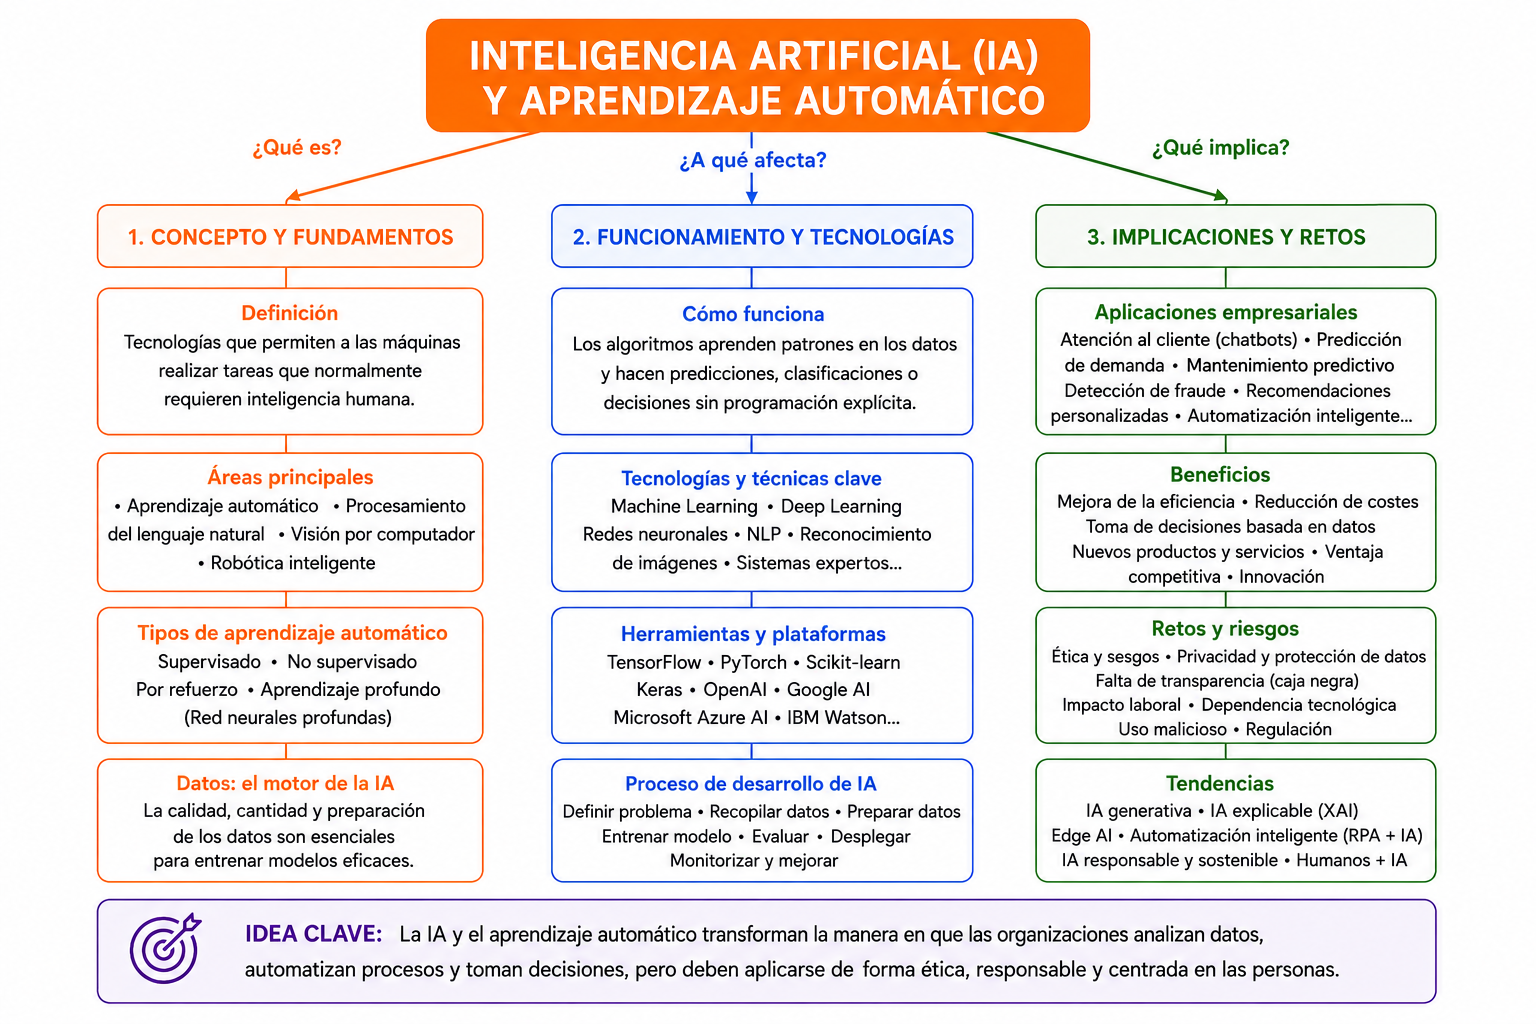
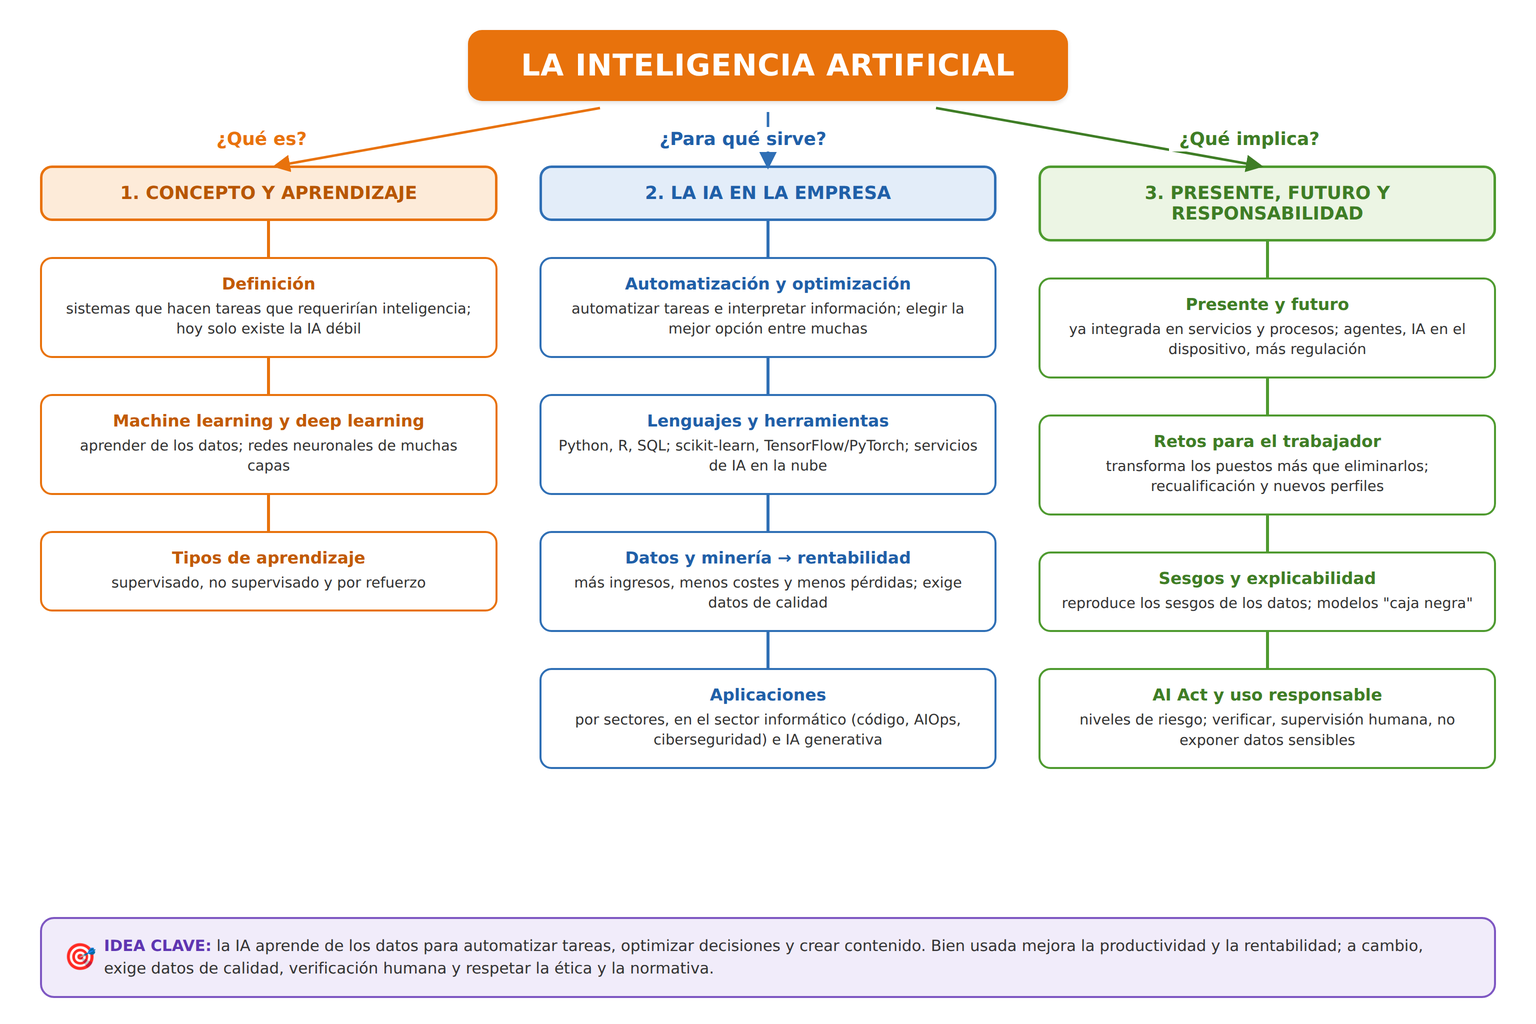
UD4: completa los contenidos del RA4 y regenera el mapa conceptual
- Añade la IA en la automatización y optimización de procesos
- Añade lenguajes y herramientas de programación en IA
- Añade IA, datos y minería de datos para la rentabilidad de la empresa
- Añade la IA aplicada al sector informático (el sector del título)
- Añade la importancia presente y futura de la IA y los retos para el trabajador
- Renumera apartados y subapartados y amplía la autoevaluación
- Regenera el mapa conceptual acorde a la nueva estructura

Claude-Session: https://claude.ai/code/session_01Sc4iXmGYX4nJpfHnHuWThb

Changed region(s): [[0.0, 0.0, 1.0, 1.0]]

diff --git a/docs/ud4.md b/docs/ud4.md
@@ -57,7 +57,95 @@ El término "inteligencia artificial" se acuñó en 1956. Desde entonces el camp
     2. **Supervisado** — se entrena con datos etiquetados (entrada + resultado correcto).
     3. **Por refuerzo** — aprende por ensayo y error con recompensa o penalización.
 
-## 3. Aplicaciones de la IA por sectores
+## 3. La IA en la automatización y la optimización de procesos
+
+Dos usos muy extendidos de la IA en las empresas son **automatizar** tareas que antes requerían intervención humana y **optimizar** decisiones que antes se tomaban "a ojo".
+
+**Automatización inteligente.** La RPA (UD2) automatiza tareas repetitivas siguiendo reglas fijas; al combinarla con IA, el sistema puede además **interpretar** información no estructurada y **decidir**:
+
+- Leer facturas, contratos o correos y extraer los datos clave (procesamiento de lenguaje natural, visión artificial).
+- Clasificar y enrutar solicitudes, tickets o incidencias.
+- Responder consultas frecuentes mediante asistentes conversacionales.
+- Detectar anomalías (fraude, fallos) y lanzar una alerta o una acción.
+
+Cuando se encadenan varias de estas piezas para automatizar un proceso de principio a fin se habla de **hiperautomatización**.
+
+**Optimización.** La IA busca la mejor combinación entre muchísimas posibles:
+
+- Rutas de reparto y planificación de flotas.
+- Niveles de inventario y previsión de demanda.
+- Consumo de energía en edificios o plantas.
+- Planificación de la producción y de los turnos.
+- Precios dinámicos.
+
+**Mejoras que aporta**: menos tiempo y menos errores, disponibilidad 24/7, liberar a las personas de tareas rutinarias para dedicarlas a otras de más valor, y decisiones basadas en datos en lugar de en intuición.
+
+!!! question "💡 Comprueba que lo has entendido"
+    Un ayuntamiento usa un sistema que lee las instancias presentadas, extrae los datos, comprueba si falta documentación y responde automáticamente a las más sencillas. Además, otro sistema decide cada día el recorrido de los camiones de recogida de residuos para gastar el menor combustible posible.
+
+    **¿Cuál de los dos casos es automatización y cuál es optimización?**
+
+??? note "Ver respuesta"
+    - Leer instancias, extraer datos y responder a las sencillas es **automatización inteligente** (interpreta información no estructurada y ejecuta una tarea que hacía una persona).
+    - Decidir el recorrido de menor consumo entre todas las rutas posibles es **optimización** (elige la mejor combinación según un objetivo).
+
+## 4. Herramientas para trabajar con IA: lenguajes y plataformas
+
+Desarrollar soluciones de IA no exige partir de cero: existe un ecosistema maduro de lenguajes, librerías y servicios.
+
+**Lenguajes de programación más usados en IA:**
+
+- **Python**: es el lenguaje dominante en IA y ciencia de datos, por su sintaxis sencilla y su enorme ecosistema de librerías.
+- **R**: muy utilizado en estadística y análisis de datos.
+- **SQL**: imprescindible para extraer y preparar los datos guardados en bases de datos.
+- Según el contexto: **Julia** (cálculo científico), **C++** o **Java** cuando se necesita rendimiento o integración con sistemas existentes, y **JavaScript** para ejecutar modelos en el navegador.
+
+**Librerías y *frameworks* habituales (en Python):**
+
+- **scikit-learn**: aprendizaje automático "clásico" (clasificación, regresión, *clustering*).
+- **TensorFlow** y **PyTorch**: aprendizaje profundo (redes neuronales).
+- **pandas** y **NumPy**: manipulación y cálculo con datos.
+- **Matplotlib** y similares: visualización.
+
+**Plataformas y servicios:**
+
+- **Servicios de IA en la nube** (UD3): visión, lenguaje, voz o modelos generativos accesibles mediante API, sin entrenar nada.
+- **Entornos de trabajo**: *notebooks* (Jupyter, Google Colab) para experimentar con datos y modelos.
+- **Herramientas *no-code* / *low-code***: permiten crear modelos sencillos sin programar, subiendo un conjunto de datos o combinando bloques.
+
+!!! question "💡 Comprueba que lo has entendido"
+    Un equipo quiere prototipar rápidamente un modelo que prediga la rotación de clientes a partir de una tabla de datos, y necesita también consultar y cruzar esos datos desde la base de datos corporativa.
+
+    **¿Qué lenguaje y qué tipo de herramienta encajarían mejor?**
+
+??? note "Ver respuesta"
+    **Python** con una librería de aprendizaje automático (por ejemplo, scikit-learn) sobre un *notebook* para prototipar con rapidez, y **SQL** para extraer y cruzar los datos de la base de datos corporativa.
+
+## 5. IA, datos y minería de datos: rentabilidad para la empresa
+
+La IA **no funciona sin datos**: aprende de ellos. Por eso va siempre unida al **Big Data** (UD2) y a la **minería de datos**.
+
+- **Minería de datos (*data mining*)**: conjunto de técnicas para descubrir patrones, relaciones y tendencias útiles dentro de grandes volúmenes de datos (reglas de asociación, agrupamiento, detección de anomalías, árboles de decisión). Es la "materia prima" sobre la que después se construyen los modelos de IA.
+- Flujo habitual: **datos** (IoT, transacciones, web, CRM) → **preparación y minería** → **modelo de IA** → **decisión o acción** → nuevos datos que realimentan el proceso.
+
+**Cómo se traduce en rentabilidad:**
+
+- **Más ingresos**: recomendaciones personalizadas, segmentación de clientes, previsión de demanda, precios óptimos y fidelización (predecir qué cliente va a abandonar).
+- **Menos costes**: mantenimiento predictivo, optimización de rutas e inventario, automatización de tareas, menos errores y devoluciones.
+- **Menos pérdidas**: detección de fraude y de impagos, control de calidad.
+- **Mejores decisiones**: cuadros de mando predictivos en lugar de informes que solo miran al pasado.
+
+La **calidad de los datos** es decisiva: datos incompletos o sesgados producen modelos poco fiables (*garbage in, garbage out*). La evaluación de la calidad del dato se trabaja en la UD5.
+
+!!! question "💡 Comprueba que lo has entendido"
+    Una tienda online implanta un modelo que analiza el histórico de compras y navegación para: (a) recomendar productos a cada cliente y (b) avisar de qué clientes tienen alta probabilidad de dejar de comprar.
+
+    **¿Por qué vías se espera que esto mejore la rentabilidad?**
+
+??? note "Ver respuesta"
+    Sobre todo por la vía de **más ingresos**: las recomendaciones personalizadas aumentan las ventas cruzadas, y anticipar el abandono permite actuar (ofertas, atención) para **fidelizar** antes de perder al cliente. Todo ello se apoya en la **minería** del histórico de datos.
+
+## 6. Aplicaciones de la IA por sectores
 
 Conectando con la digitalización sectorial vista en la UD1:
 
@@ -76,7 +164,31 @@ Conectando con la digitalización sectorial vista en la UD1:
 ??? note "Ver respuesta"
     **Visión artificial** (aprendizaje profundo aplicado a imágenes) para **control de calidad automatizado**: detecta defectos de forma continua, más rápido y sin la fatiga de la inspección manual, reduciendo las piezas defectuosas que llegan al cliente.
 
-## 4. IA generativa
+## 7. La IA en el sector informático (el sector del título)
+
+En el propio ámbito de la **administración de sistemas y las redes**, la IA se ha convertido en una herramienta de trabajo cotidiana:
+
+- **Asistentes de programación**: generan, completan y explican código, ayudan a depurar y a escribir pruebas o documentación.
+- **AIOps (operaciones de TI con IA)**: análisis automático de *logs* y métricas para detectar incidencias antes de que afecten al servicio, correlacionar alertas y sugerir la causa raíz.
+- **Ciberseguridad**: detección de intrusiones y de comportamiento anómalo en la red, filtrado de *phishing* y *spam*, priorización de vulnerabilidades (véase UD2).
+- **Automatización de la administración de sistemas**: generación de *scripts* y de ficheros de configuración, gestión predictiva de capacidad y de copias, respuesta automática a eventos.
+- **Soporte y *service desk***: *chatbots* que resuelven incidencias frecuentes y guían al usuario; clasificación y enrutado automático de *tickets*.
+- **Pruebas y calidad del software**: generación de casos de prueba, detección de regresiones.
+
+**Mejoras en los procesos de trabajo**: menos tiempo en tareas repetitivas, menos errores de configuración, respuesta más rápida a incidencias y más margen para el diseño y la mejora. La contrapartida: hay que **revisar** lo que produce la IA (código, configuraciones) y no perder el criterio técnico propio.
+
+!!! question "💡 Comprueba que lo has entendido"
+    En un departamento de sistemas, la IA sugiere el *script* de despliegue, resume cada noche miles de líneas de *log* y avisa de patrones de tráfico anómalos en la red.
+
+    **Asocia cada uso con su categoría (asistente de programación, AIOps, ciberseguridad) e indica una precaución común a los tres.**
+
+??? note "Ver respuesta"
+    - Sugerir el *script* de despliegue → **asistente de programación**.
+    - Resumir los *logs* y detectar incidencias → **AIOps**.
+    - Avisar de tráfico anómalo → **ciberseguridad**.
+    - Precaución común: **revisar y validar** la salida de la IA antes de aplicarla; el criterio técnico sigue siendo del profesional.
+
+## 8. IA generativa
 
 La **IA generativa** agrupa a los modelos capaces de crear contenido nuevo (texto, imágenes, audio, vídeo o código) en lugar de limitarse a clasificar o predecir sobre datos ya existentes. Es, con diferencia, el ámbito de la IA que más ha impactado en el uso cotidiano en los últimos años.
 
@@ -96,7 +208,7 @@ La **IA generativa** agrupa a los modelos capaces de crear contenido nuevo (text
 ??? note "Ver respuesta"
     Es **IA generativa**: crea contenido nuevo (una imagen que no existía) a partir de una descripción, en lugar de limitarse a clasificar o predecir sobre datos ya existentes. Se apoya en el aprendizaje profundo.
 
-### 4.1. Limitaciones de la IA generativa
+### 8.1. Limitaciones de la IA generativa
 
 - **Alucinaciones**: los modelos pueden generar información que suena plausible pero es incorrecta o directamente inventada, presentada con total seguridad.
 - **Desactualización**: un modelo entrenado con datos hasta una fecha determinada no conoce, por defecto, información posterior a ese momento.
@@ -112,9 +224,37 @@ Por ello, un principio fundamental en el uso profesional de la IA generativa es 
 ??? note "Ver respuesta"
     Una **alucinación**: información plausible pero inventada, presentada con seguridad (unida a la **falta de razonamiento verificable**: el modelo no consulta fuentes, genera la respuesta más probable). Lo habría evitado la **verificación humana** de la respuesta contra fuentes fiables antes de utilizarla.
 
-## 5. Ética y regulación de la inteligencia artificial
+## 9. Importancia presente y futura de la IA. Retos para el trabajador
 
-### 5.1. Sesgos algorítmicos
+**Presente.** La IA ya está integrada en servicios de uso diario (buscadores, traductores, recomendadores, asistentes, filtros antifraude) y en procesos de empresa de todos los sectores. La irrupción de la **IA generativa** (apartado 8) la ha puesto al alcance de cualquier persona sin perfil técnico.
+
+**Futuro (tendencias):**
+
+- **IA más presente y "invisible"**, integrada dentro de las herramientas que ya se usan.
+- **Agentes de IA** que no solo responden, sino que ejecutan tareas de varios pasos con cierta autonomía.
+- **IA en el dispositivo** (*edge*, UD3): modelos que funcionan en el móvil o en la máquina, sin enviar los datos a la nube.
+- **Más regulación y exigencia de transparencia** (apartado 10).
+- Debate abierto sobre **consumo energético**, propiedad intelectual y fiabilidad.
+
+**Retos para el trabajador:**
+
+- **Transformación de los puestos, más que desaparición**: la IA automatiza *tareas*, no siempre profesiones enteras; muchos empleos cambian de contenido.
+- **Recualificación permanente (*reskilling* y *upskilling*)**: saber usar herramientas de IA y trabajar *con* ellas se convierte en una competencia básica.
+- **Nuevos perfiles**: ingeniería de datos, entrenamiento y supervisión de modelos, auditoría de algoritmos, integración de servicios de IA.
+- **Competencias que ganan valor**: criterio para verificar resultados, pensamiento crítico, comunicación, creatividad y trato con personas.
+- **Riesgos a vigilar**: pérdida de cualificación por delegar en exceso, vigilancia laboral mediante IA y la **brecha** entre quienes saben aprovecharla y quienes no.
+
+!!! question "💡 Comprueba que lo has entendido"
+    Ante la llegada de la IA generativa a su empresa, una persona teme que su puesto "desaparezca de un día para otro".
+
+    **Da una visión más matizada y una acción concreta que pueda tomar.**
+
+??? note "Ver respuesta"
+    Lo habitual es que la IA automatice **tareas** dentro del puesto, no el puesto entero: el trabajo se **transforma** y gana peso lo que la IA no hace bien (criterio, verificación, trato con personas). Acción concreta: **formarse** en el uso de esas herramientas (*upskilling*) para incorporarlas a su trabajo en lugar de competir con ellas.
+
+## 10. Ética y regulación de la inteligencia artificial
+
+### 10.1. Sesgos algorítmicos
 
 Un sistema de IA aprende de los datos con los que se entrena. Si esos datos reflejan sesgos históricos o sociales (por ejemplo, discriminación pasada en procesos de contratación), el sistema puede **reproducir e incluso amplificar** esos sesgos, aunque no exista intención discriminatoria por parte de quien lo desarrolla. Es un riesgo especialmente relevante en aplicaciones como la selección de personal, la concesión de créditos o la valoración de riesgo penal.
 
@@ -126,11 +266,11 @@ Un sistema de IA aprende de los datos con los que se entrena. Si esos datos refl
 ??? note "Ver respuesta"
     El modelo **reproducirá el sesgo histórico**: aprenderá a rechazar perfiles parecidos a los que ya se rechazaron. Aunque se elimine la variable "barrio", otras variables correlacionadas (código postal, ingresos, etc.) actúan como *proxy*, así que hay que auditar los datos y los resultados, no solo quitar un campo.
 
-### 5.2. Transparencia y explicabilidad
+### 10.2. Transparencia y explicabilidad
 
 Muchos modelos de IA, especialmente los basados en *deep learning*, funcionan como "cajas negras": es difícil explicar exactamente por qué han llegado a una conclusión concreta. Esto plantea problemas cuando la IA se usa para tomar decisiones que afectan a derechos de las personas (por ejemplo, denegar un préstamo), donde suele exigirse poder explicar el motivo de la decisión.
 
-### 5.3. El Reglamento europeo de Inteligencia Artificial (AI Act)
+### 10.3. El Reglamento europeo de Inteligencia Artificial (AI Act)
 
 La Unión Europea ha aprobado un reglamento específico para regular el desarrollo y uso de sistemas de IA, que clasifica los sistemas según su **nivel de riesgo**:
 
@@ -151,7 +291,7 @@ La Unión Europea ha aprobado un reglamento específico para regular el desarrol
     2. **Riesgo alto** — selección de personal; requisitos estrictos de transparencia, supervisión humana y gestión de riesgos.
     3. **Riesgo limitado** — sujeto sobre todo a obligaciones de transparencia.
 
-## 6. IA responsable en el entorno profesional
+## 11. IA responsable en el entorno profesional
 
 Algunas buenas prácticas para el uso profesional de herramientas de IA:
 
@@ -189,8 +329,8 @@ Clasifica cada uno de estos sistemas de IA según los niveles de riesgo del Regl
 ## Mapa conceptual
 
 <figure markdown="span">
-  ![Mapa conceptual de la Unidad 4: la inteligencia artificial y sus tres ramas —concepto y fundamentos, funcionamiento y tecnologías, e implicaciones y retos](assets/img/ud4-mapa-conceptual.png){ width="960" }
-  <figcaption>Síntesis de la unidad: la inteligencia artificial se aborda desde su <strong>concepto y fundamentos</strong> (definición, áreas principales, tipos de aprendizaje automático y el papel de los datos), su <strong>funcionamiento y tecnologías</strong> (cómo aprenden los algoritmos, técnicas clave, herramientas y el proceso de desarrollo) y sus <strong>implicaciones y retos</strong> (aplicaciones empresariales, beneficios, riesgos éticos y tendencias como la IA generativa o explicable).</figcaption>
+  ![Mapa conceptual de la Unidad 4: la inteligencia artificial y sus tres ramas —concepto y aprendizaje, la IA en la empresa, y presente, futuro y responsabilidad](assets/img/ud4-mapa-conceptual.png){ width="960" }
+  <figcaption>Síntesis de la unidad: la inteligencia artificial se aborda desde su <strong>concepto y aprendizaje</strong> (definición, IA débil y fuerte, <em>machine learning</em> y <em>deep learning</em>, tipos de aprendizaje), <strong>la IA en la empresa</strong> (automatización y optimización de procesos, lenguajes y herramientas, datos y minería para la rentabilidad, aplicaciones por sectores y en el sector informático, IA generativa) y su <strong>presente, futuro y responsabilidad</strong> (importancia y tendencias, retos para el trabajador, sesgos y explicabilidad, AI Act y uso responsable).</figcaption>
 </figure>
 
 ## Autoevaluación
@@ -221,3 +361,18 @@ Clasifica cada uno de estos sistemas de IA según los niveles de riesgo del Regl
 
 ??? question "9. ¿Qué tipo de sistemas de IA se consideran de "riesgo inaceptable" en el AI Act?"
     Los que vulneran derechos fundamentales y por ello están prohibidos, como los sistemas de puntuación social por parte de gobiernos o determinadas formas de manipulación subliminal.
+
+??? question "10. ¿Qué diferencia hay entre usar la IA para automatizar y usarla para optimizar un proceso?"
+    Automatizar es hacer que el sistema ejecute por sí mismo una tarea que antes hacía una persona (leer un documento y extraer datos, responder una consulta). Optimizar es elegir la mejor opción entre muchas posibles según un objetivo (la ruta de menor consumo, el nivel de inventario que minimiza coste).
+
+??? question "11. Cita el lenguaje de programación más usado en IA y dos librerías habituales."
+    **Python**. Librerías habituales: scikit-learn (aprendizaje automático clásico), TensorFlow y PyTorch (aprendizaje profundo), pandas y NumPy (datos). También R y SQL son frecuentes en el trabajo con datos.
+
+??? question "12. ¿Qué es la minería de datos y cómo se relaciona con la rentabilidad de la empresa?"
+    Es el conjunto de técnicas para descubrir patrones y tendencias útiles en grandes volúmenes de datos. Alimenta a los modelos de IA que mejoran la rentabilidad por varias vías: más ingresos (recomendación, previsión de demanda, fidelización), menos costes (mantenimiento predictivo, optimización, automatización) y menos pérdidas (detección de fraude, control de calidad).
+
+??? question "13. Pon dos ejemplos de uso de la IA en el sector informático."
+    Por ejemplo: asistentes de programación que generan y explican código; AIOps para analizar *logs* y detectar incidencias antes de que afecten al servicio; detección de intrusiones y de *phishing* en ciberseguridad; *chatbots* de soporte y clasificación de *tickets*; generación de *scripts* y de configuración.
+
+??? question "14. ¿Por qué se dice que la IA transforma los puestos de trabajo más que hacerlos desaparecer? Cita un reto para el trabajador."
+    Porque la IA automatiza tareas concretas dentro de un puesto, no siempre la profesión entera: el contenido del trabajo cambia y gana peso lo que la IA no hace bien (criterio, verificación, trato con personas). Un reto: la **recualificación permanente** (*reskilling* y *upskilling*) para aprender a trabajar con estas herramientas.
